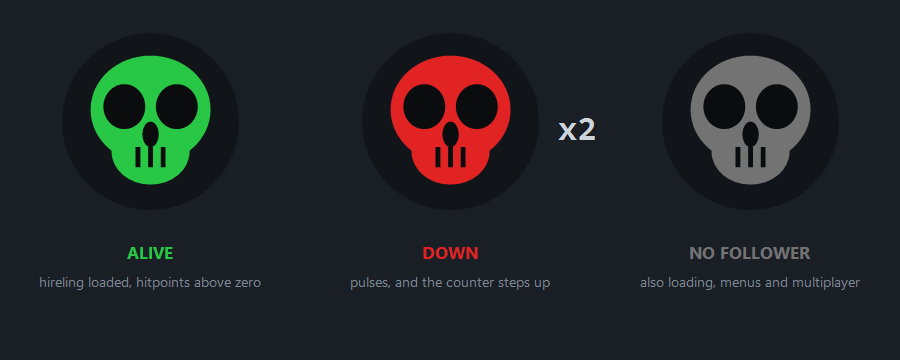
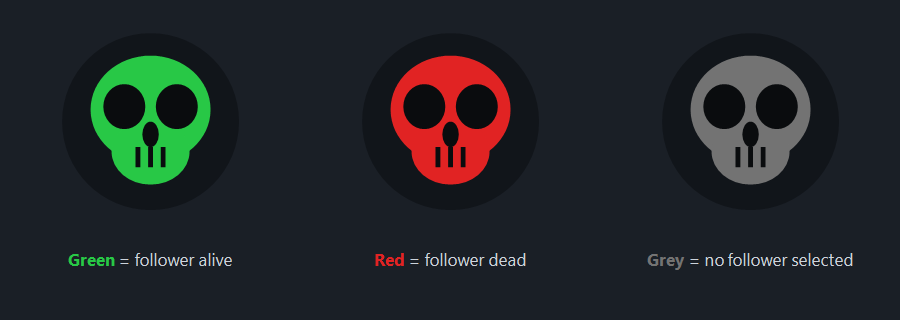
Prefix the death counter, and simplify the state illustration
The counter now renders as x2 instead of a bare 2: a lone digit beside the
skull read as a level or an id rather than a count. The prefix is exposed as
CounterPrefix and can be set to an empty string for the previous behaviour.

The illustration dropped the example counter, which belonged to the counter
feature rather than to the state legend, and now labels each skull with the
state it represents.

diff --git a/docs/presentation.html b/docs/presentation.html
@@ -281,7 +281,7 @@
           <rect x="48.4" y="67" width="3.2" height="13.5" fill="var(--skull-hole)"></rect>
           <rect x="56.8" y="67" width="3.2" height="13.5" fill="var(--skull-hole)"></rect>
         </svg>
-        <div class="state-name" style="color: var(--alive)">Alive</div>
+        <div class="state-name" style="color: var(--alive)">Follower alive</div>
         <p class="state-note">The hireling actor is loaded and its hitpoints are above zero.</p>
       </div>
 
@@ -298,9 +298,9 @@
             <rect x="48.4" y="67" width="3.2" height="13.5" fill="var(--skull-hole)"></rect>
             <rect x="56.8" y="67" width="3.2" height="13.5" fill="var(--skull-hole)"></rect>
           </svg>
-          <span class="state-count">2</span>
+          <span class="state-count">&times;2</span>
         </div>
-        <div class="state-name" style="color: var(--dead)">Down</div>
+        <div class="state-name" style="color: var(--dead)">Follower dead</div>
         <p class="state-note">Pulses gently, and the counter beside it steps up by one.</p>
       </div>
 
@@ -316,7 +316,7 @@
           <rect x="48.4" y="67" width="3.2" height="13.5" fill="var(--skull-hole)"></rect>
           <rect x="56.8" y="67" width="3.2" height="13.5" fill="var(--skull-hole)"></rect>
         </svg>
-        <div class="state-name" style="color: var(--none)">No follower</div>
+        <div class="state-name" style="color: var(--none)">No follower selected</div>
         <p class="state-note">Also shown while loading, in menus, and in multiplayer games.</p>
       </div>
     </div>

diff --git a/GuiSquare/FollowerAliveStatusPlugin.cs b/GuiSquare/FollowerAliveStatusPlugin.cs
@@ -67,6 +67,13 @@ namespace Turbo.Plugins.GuiSquare
         public bool CounterOnRight { get; set; }
         /// <summary>Masque le compteur tant qu'il vaut 0.</summary>
         public bool HideCounterWhenZero { get; set; }
+
+        /// <summary>
+        /// Prefixe affiche devant le compteur, pour qu'un chiffre isole ne soit pas ambigu.
+        /// Defaut : "\u00D7" (signe multiplier), ce qui donne par exemple "x2".
+        /// Mettre "" pour n'afficher que le nombre.
+        /// </summary>
+        public string CounterPrefix { get; set; }
         /// <summary>Apparence de l'icone : tete de mort, pastille, ou portrait du follower.</summary>
         public FollowerStatusIconStyle IconStyle { get; set; }
 
@@ -187,6 +194,7 @@ namespace Turbo.Plugins.GuiSquare
             ShowCounter = true;
             CounterOnRight = true;
             HideCounterWhenZero = false;
+            CounterPrefix = "\u00D7"; // echappe pour garder ce fichier source en pur ASCII
             BlinkWhenDead = true;
             HideOnMapModes = true;
             HideWhenNoFollower = false;
@@ -545,7 +553,7 @@ namespace Turbo.Plugins.GuiSquare
                 var font = State == FollowerLifeState.Dead ? CounterDeadFont : CounterFont;
                 if (font != null)
                 {
-                    var text = DeathCount.ToString(CultureInfo.InvariantCulture);
+                    var text = CounterPrefix + DeathCount.ToString(CultureInfo.InvariantCulture);
                     var layout = font.GetTextLayout(text);
                     if (CounterOnRight || !ShowIcon)
                         font.DrawText(layout, x + (ShowIcon ? size * 1.15f : 0f), cy - (layout.Metrics.Height / 2f));
